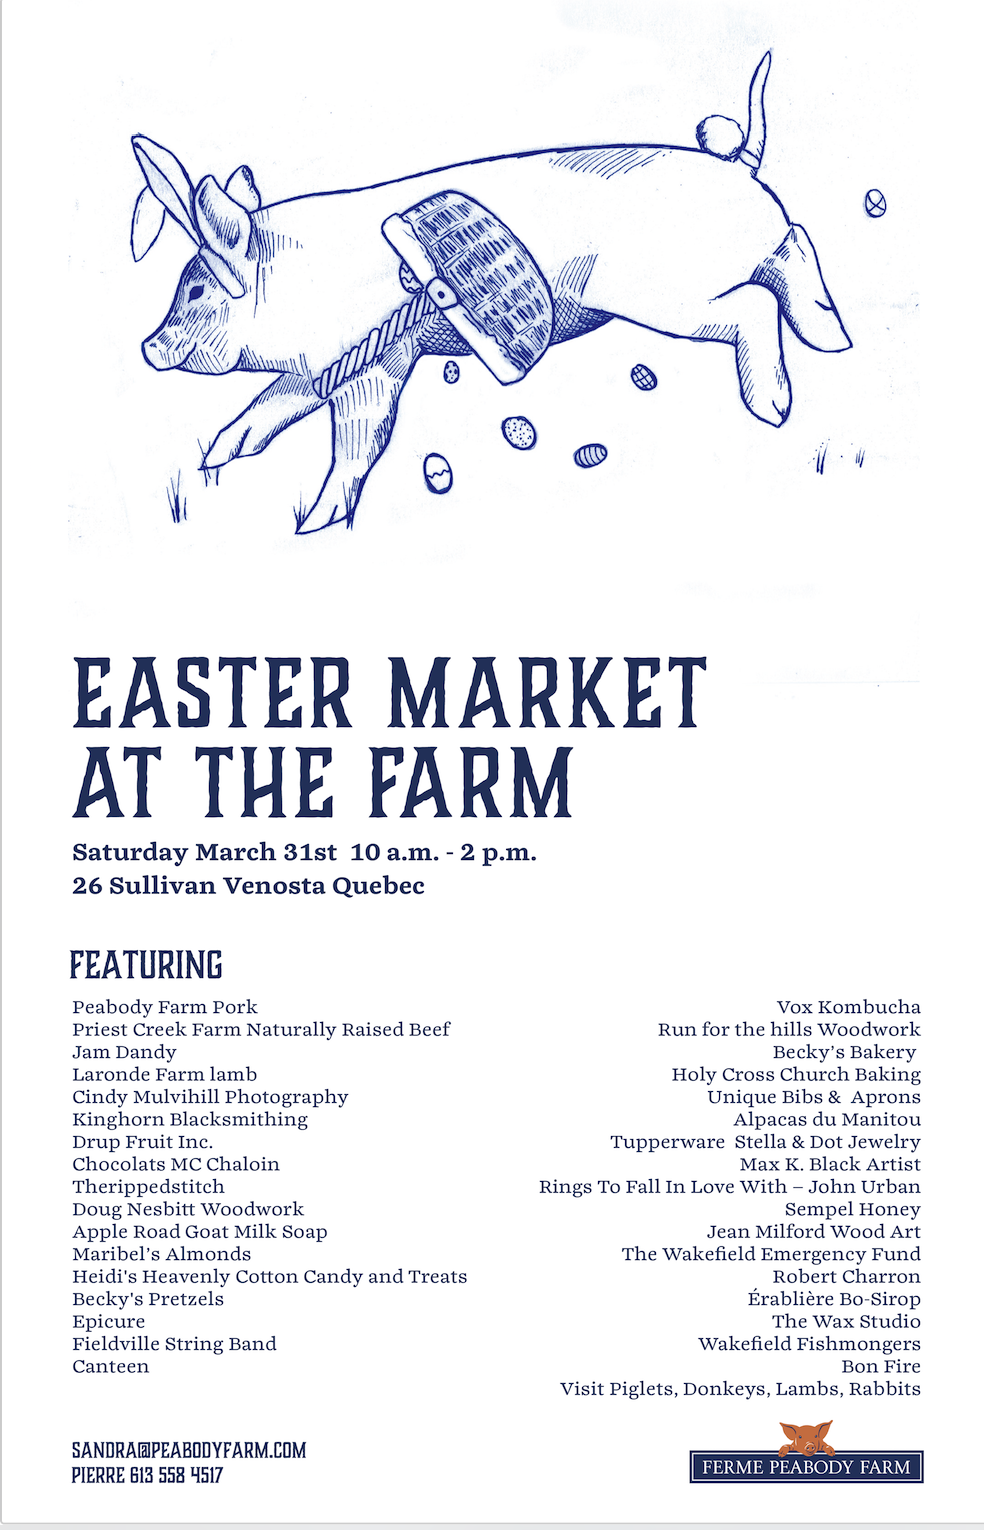
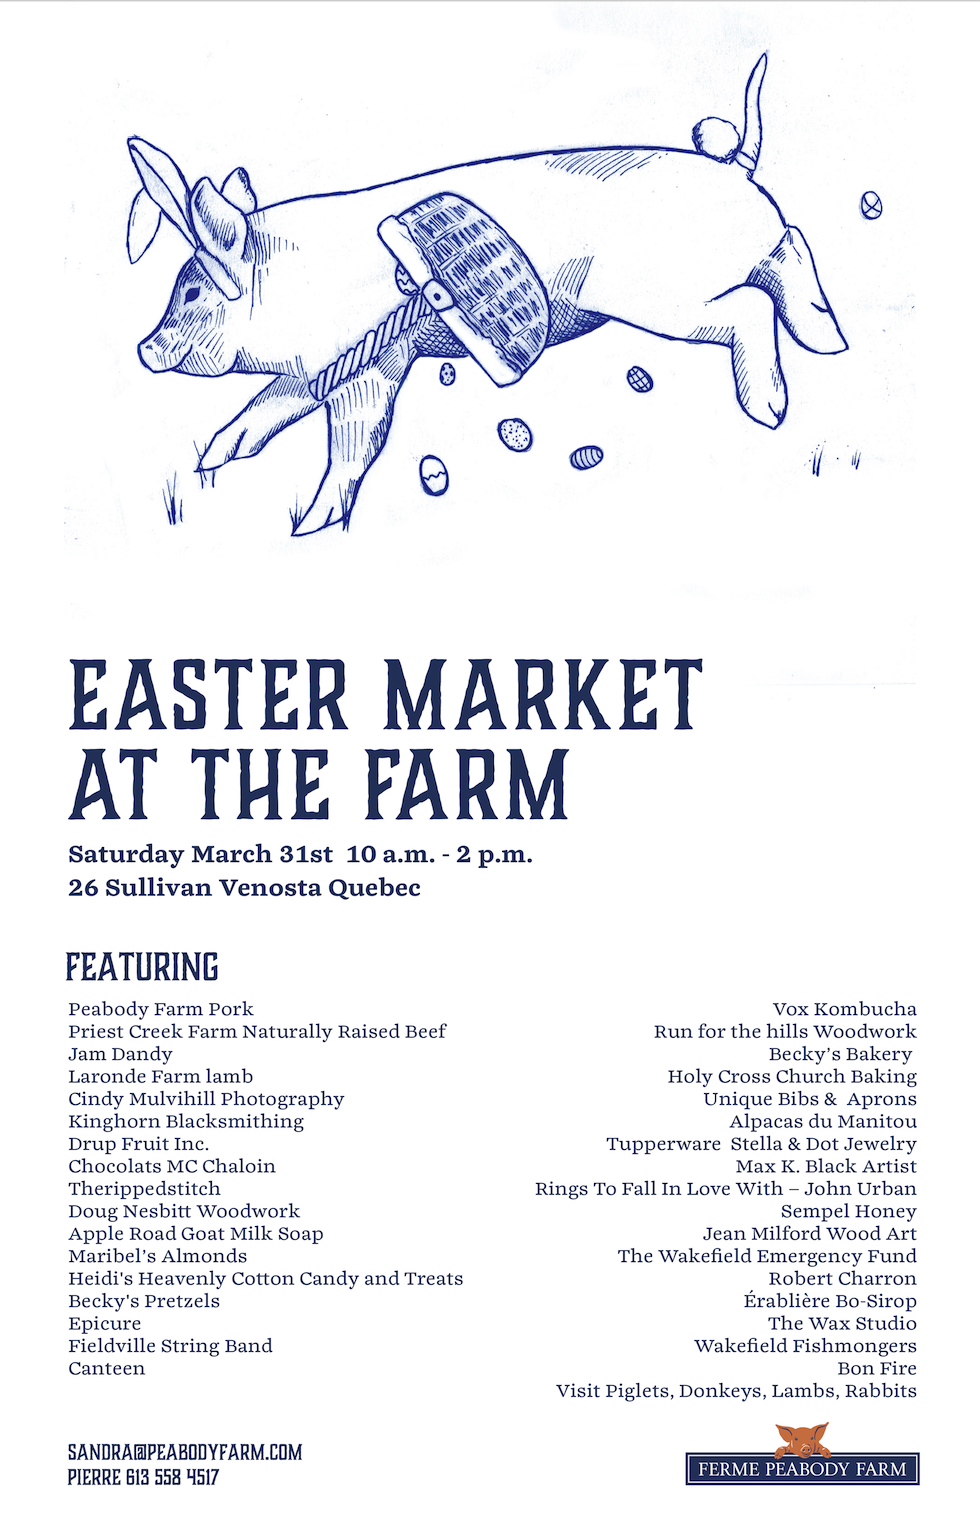
photo

diff --git a/index.html b/index.html
@@ -54,7 +54,7 @@
      Our pigs are free range, and free of antibiotics. We are also under an hour away from Ottawa. </p>
 </div>
 
-<div class="unit xs-1 s-1 m-1 l-1-2 xl-1-2 center center-block">
+<div class="unit xs-1 s-1 m-1 l-1 xl-1 block">
   <img class="img-flex saturate" src="images/poster.png" alt="">
 </div>
 
